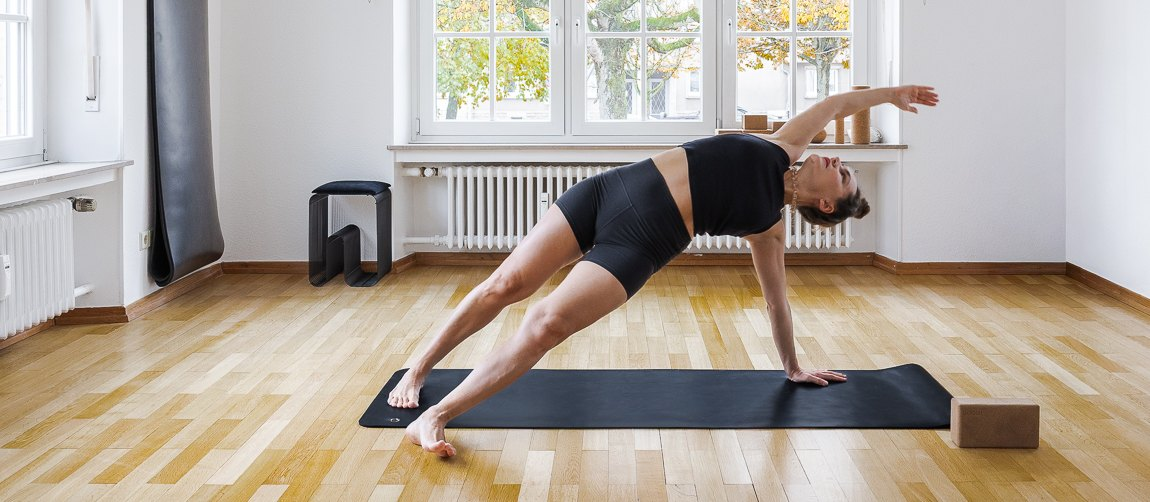
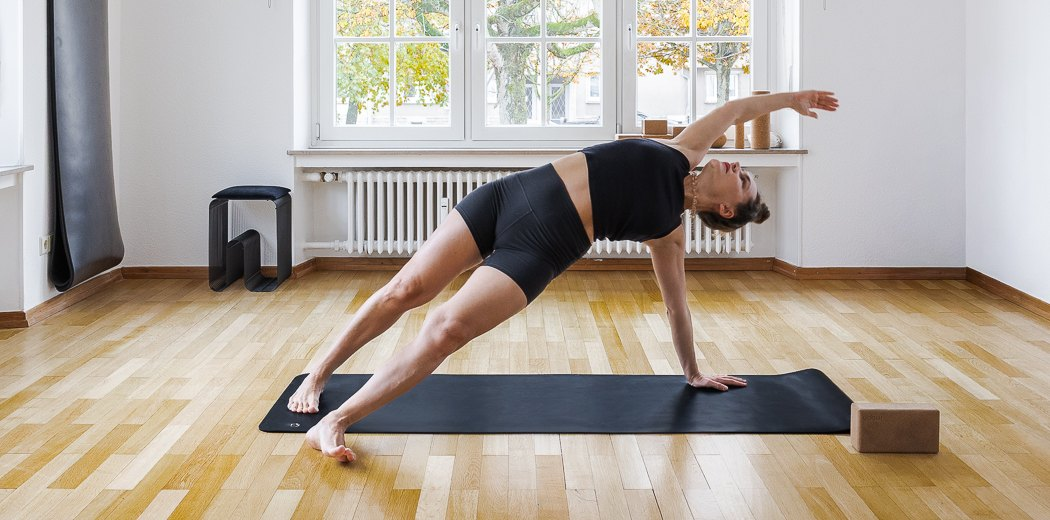
Buchungsseite: Kopffoto in voller Höhe (Desktop)

diff --git a/src/app/globals.css b/src/app/globals.css
@@ -239,10 +239,21 @@ table.list th { font-weight: 500; color: var(--muted); font-size: 12px; text-tra
 @media (max-width: 720px) {
   .hero-band { padding-top: 250px; padding-bottom: 28px; }
   .hero-band::before {
-    width: 100%; height: 280px; bottom: auto; background-size: cover; background-position: 70% 60%;
+    width: 100%; height: 280px; bottom: auto; background-size: cover; background-position: 84% 60%;
     -webkit-mask-image: linear-gradient(to bottom, #000 0, #000 60%, transparent 100%);
     mask-image: linear-gradient(to bottom, #000 0, #000 60%, transparent 100%);
   }
   .hero-band .wrap { min-height: 0; }
   .hero-band .page-title, .hero-band .lead { max-width: none; }
+}
+
+/* Desktop: Foto in voller Höhe (Hand oben bis Füße unten), Fläche im Seitenverhältnis des Fotos */
+@media (min-width: 721px) {
+  .hero-band .wrap { min-height: 300px; }
+  .hero-band::before {
+    width: auto; max-width: 58%; aspect-ratio: 1050 / 520;
+    background-size: cover; background-position: center center;
+    -webkit-mask-image: linear-gradient(to left, #000 0, #000 70%, rgba(0,0,0,.45) 86%, transparent 100%);
+    mask-image: linear-gradient(to left, #000 0, #000 70%, rgba(0,0,0,.45) 86%, transparent 100%);
+  }
 }
